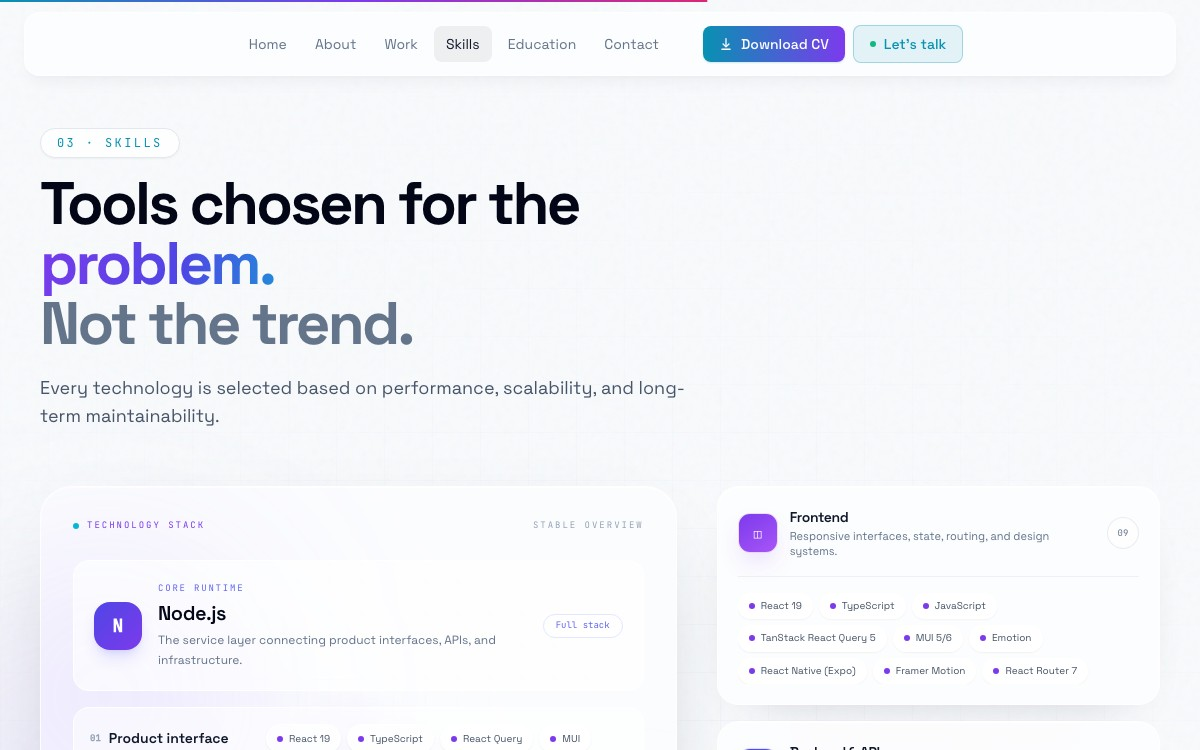
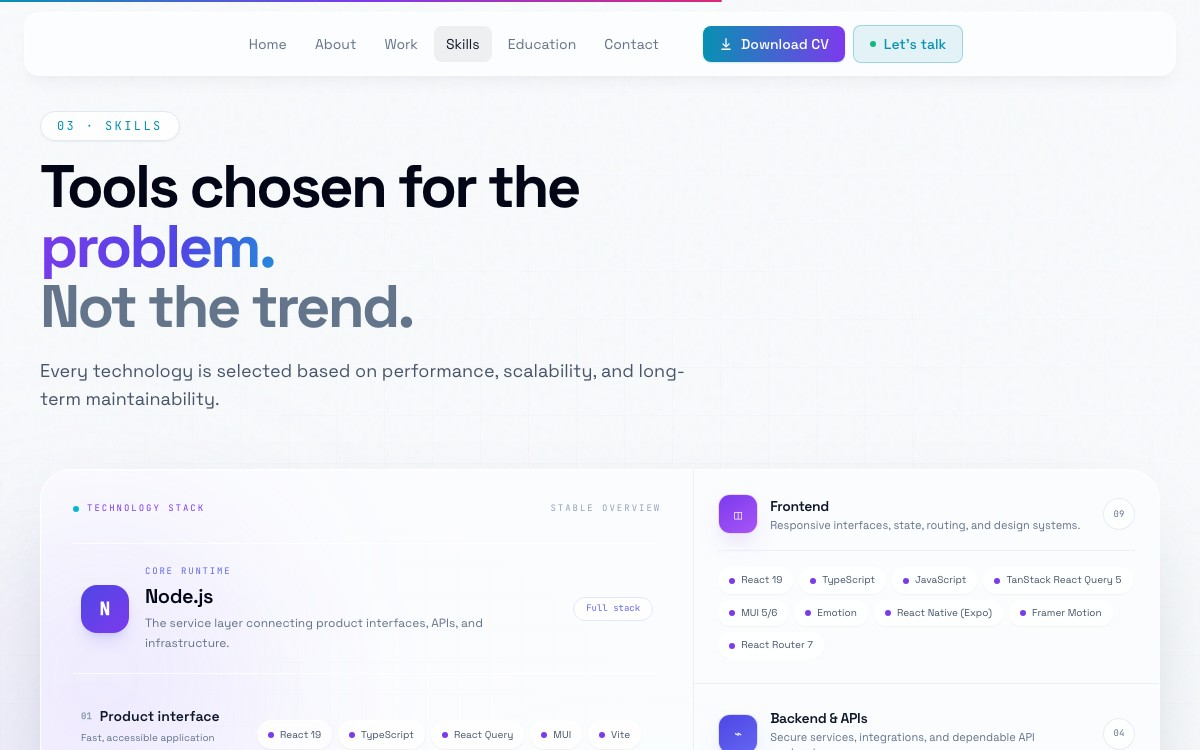
Unify skills into a single panel

diff --git a/src/components/Skills.tsx b/src/components/Skills.tsx
@@ -104,7 +104,7 @@ function TechnologyStack({
   onCategoryChange: (category: Category | null) => void;
 }) {
   return (
-    <div className="skills-stack-panel relative overflow-hidden rounded-[2rem] p-5 sm:p-7 lg:p-8" aria-label="Technology stack overview">
+    <div className="relative p-5 sm:p-7 lg:p-8" aria-label="Technology stack overview">
       <div className="skills-stack-grid pointer-events-none absolute inset-0 opacity-35" />
       <div className="pointer-events-none absolute -left-20 top-16 h-72 w-72 rounded-full bg-violet-400/15 blur-[90px]" />
       <div className="pointer-events-none absolute -right-16 bottom-12 h-64 w-64 rounded-full bg-cyan-300/15 blur-[90px]" />
@@ -120,10 +120,10 @@ function TechnologyStack({
       <button
         type="button"
         onClick={() => onCategoryChange(activeCategory === "Backend & APIs" ? null : "Backend & APIs")}
-        className={`relative z-10 mt-7 flex w-full items-center gap-4 rounded-2xl border p-4 text-left transition-colors sm:p-5 ${
+        className={`relative z-10 mt-7 flex w-full items-center gap-4 border-y px-1 py-5 text-left transition-colors sm:px-2 ${
           activeCategory === "Backend & APIs"
-            ? "border-indigo-300 bg-indigo-50/75"
-            : "border-white/90 bg-white/65 hover:border-indigo-200"
+            ? "border-indigo-200 bg-indigo-50/45"
+            : "border-white/80 hover:bg-white/35"
         }`}
       >
         <span className="grid h-12 w-12 shrink-0 place-items-center rounded-2xl bg-gradient-to-br from-indigo-600 to-violet-600 font-mono text-lg font-semibold text-white shadow-lg shadow-indigo-500/20">
@@ -146,7 +146,7 @@ function TechnologyStack({
               type="button"
               key={layer.label}
               onClick={() => onCategoryChange(active ? null : layer.category)}
-              className={`skills-stack-layer grid w-full gap-4 rounded-2xl border p-4 text-left sm:grid-cols-[10rem_1fr] sm:items-center ${active ? "is-active" : ""}`}
+              className={`skills-stack-layer grid w-full gap-4 border-t px-1 py-4 text-left first:border-t-0 sm:grid-cols-[10rem_1fr] sm:items-center sm:px-2 ${active ? "is-active" : ""}`}
               style={{ "--layer-color": meta.color } as CSSProperties}
             >
               <span>
@@ -206,8 +206,7 @@ function SkillCard({
       whileInView={{ opacity: 1, y: 0 }}
       viewport={{ once: true, amount: 0.2 }}
       transition={{ duration: 0.5, delay: index * 0.055, ease: [0.22, 1, 0.36, 1] }}
-      whileHover={mobile ? undefined : { y: -6 }}
-      className={`skills-category-card group relative w-full overflow-hidden rounded-[1.35rem] border p-4 text-left transition-[border-color,box-shadow,background] duration-300 sm:p-5 ${active ? "is-active" : ""}`}
+      className={`skills-category-row group relative w-full overflow-hidden border-b border-slate-200/60 p-5 text-left transition-colors duration-200 last:border-b-0 sm:p-6 ${active ? "is-active" : ""}`}
       style={{ "--category-color": meta.color, "--category-color-2": meta.color2 } as CSSProperties}
     >
       <button
@@ -301,25 +300,29 @@ export default function Skills() {
           </p>
         </Reveal>
 
-        <div className="mt-14 grid grid-cols-1 items-start gap-8 lg:grid-cols-12 lg:gap-10">
-          <Reveal className="lg:col-span-7 lg:sticky lg:top-24">
-            <TechnologyStack activeCategory={activeCategory} onCategoryChange={setActiveCategory} />
-          </Reveal>
+        <Reveal className="mt-14">
+          <div className="skills-unified-panel overflow-hidden rounded-[2rem]">
+            <div className="grid grid-cols-1 lg:grid-cols-12">
+              <div className="lg:col-span-7">
+                <TechnologyStack activeCategory={activeCategory} onCategoryChange={setActiveCategory} />
+              </div>
 
-          <div className="grid grid-cols-1 gap-4 md:grid-cols-2 lg:col-span-5 lg:grid-cols-1">
-            {orderedGroups.map((group, index) => (
-              <SkillCard
-                key={group.category}
-                group={group}
-                index={index}
-                mobile={mobile}
-                active={activeCategory === group.category}
-                expanded={expandedCategory === group.category}
-                onSelect={() => selectCategory(group.category)}
-              />
-            ))}
+              <div className="grid grid-cols-1 border-t border-slate-200/60 md:grid-cols-2 lg:col-span-5 lg:grid-cols-1 lg:border-l lg:border-t-0">
+                {orderedGroups.map((group, index) => (
+                  <SkillCard
+                    key={group.category}
+                    group={group}
+                    index={index}
+                    mobile={mobile}
+                    active={activeCategory === group.category}
+                    expanded={expandedCategory === group.category}
+                    onSelect={() => selectCategory(group.category)}
+                  />
+                ))}
+              </div>
+            </div>
           </div>
-        </div>
+        </Reveal>
       </div>
     </section>
   );

diff --git a/src/index.css b/src/index.css
@@ -184,7 +184,7 @@ body {
   animation: skills-gradient-shift 7s ease infinite;
 }
 
-.skills-stack-panel {
+.skills-unified-panel {
   border: 1px solid rgba(255, 255, 255, 0.72);
   background:
     radial-gradient(circle at 50% 48%, rgba(124, 58, 237, 0.12), transparent 28%),
@@ -197,16 +197,15 @@ body {
 }
 
 .skills-stack-layer {
-  border-color: rgba(255, 255, 255, 0.82);
-  background: rgba(255, 255, 255, 0.56);
+  border-color: rgba(148, 163, 184, 0.16);
+  background: transparent;
   transition: border-color 180ms ease, background-color 180ms ease, box-shadow 180ms ease;
 }
 
 .skills-stack-layer:hover,
 .skills-stack-layer.is-active {
-  border-color: color-mix(in srgb, var(--layer-color) 34%, white);
-  background: rgba(255, 255, 255, 0.82);
-  box-shadow: 0 18px 40px -32px var(--layer-color);
+  border-color: color-mix(in srgb, var(--layer-color) 24%, white);
+  background: color-mix(in srgb, var(--layer-color) 5%, transparent);
 }
 
 .skills-stack-pill {
@@ -218,16 +217,7 @@ body {
   border-color: color-mix(in srgb, var(--layer-color) 22%, white);
 }
 
-.skills-category-card {
-  background: rgba(255, 255, 255, 0.72);
-  border-color: rgba(255, 255, 255, 0.86);
-  box-shadow:
-    inset 0 1px 0 rgba(255, 255, 255, 0.9),
-    0 20px 54px -38px rgba(15, 23, 42, 0.32);
-  backdrop-filter: blur(24px) saturate(145%);
-}
-
-.skills-category-card::before {
+.skills-category-row::before {
   position: absolute;
   inset: 0;
   background: linear-gradient(135deg, color-mix(in srgb, var(--category-color) 10%, transparent), transparent 55%, color-mix(in srgb, var(--category-color-2) 7%, transparent));
@@ -236,14 +226,13 @@ body {
   transition: opacity 300ms ease;
 }
 
-.skills-category-card:hover,
-.skills-category-card.is-active {
-  border-color: color-mix(in srgb, var(--category-color) 32%, white);
-  box-shadow: 0 28px 68px -34px color-mix(in srgb, var(--category-color) 38%, transparent);
+.skills-category-row:hover,
+.skills-category-row.is-active {
+  background: rgba(255, 255, 255, 0.52);
 }
 
-.skills-category-card:hover::before,
-.skills-category-card.is-active::before {
+.skills-category-row:hover::before,
+.skills-category-row.is-active::before {
   opacity: 1;
 }
 
@@ -379,8 +368,7 @@ body {
   #experience .glass,
   #education .glass,
   #contact .glass,
-  .skills-category-card,
-  .skills-stack-panel {
+  .skills-unified-panel {
     border-radius: 1.75rem;
   }
 
@@ -404,9 +392,6 @@ body {
     border-radius: 2rem;
   }
 
-  .skills-category-card {
-    padding: 1rem;
-  }
 
   #about .depth-card,
   #experience .depth-card,